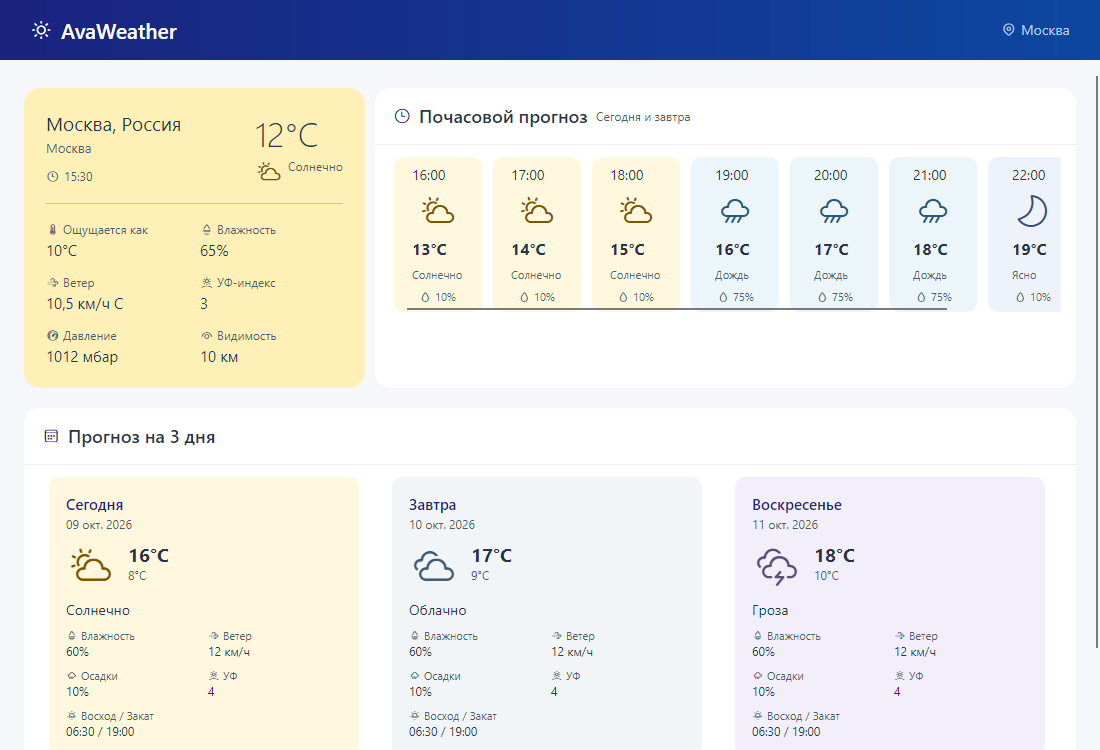
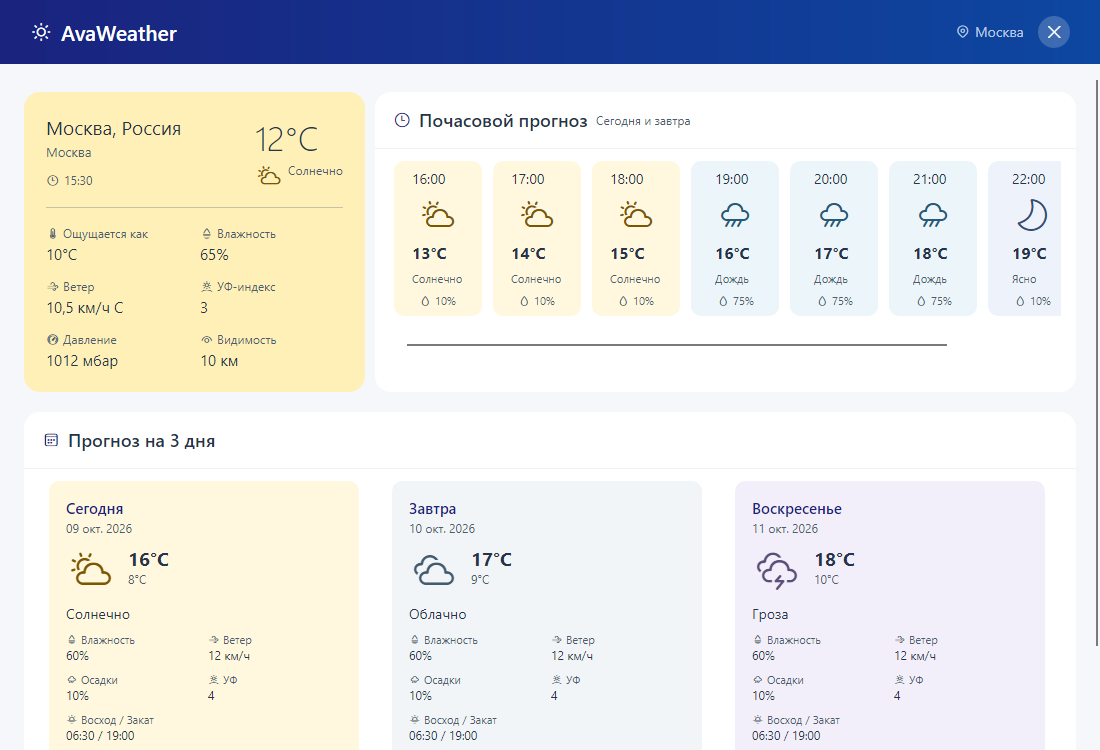
Replace native title bar with draggable weather header

diff --git a/AvaWeather/Views/WeatherView.cs b/AvaWeather/Views/WeatherView.cs
@@ -1,12 +1,15 @@
 using System.Linq.Expressions;
 using Avalonia;
 using Avalonia.Controls;
+using Avalonia.Controls.Chrome;
 using Avalonia.Controls.Primitives;
 using Avalonia.Controls.Templates;
 using Avalonia.Data;
 using Avalonia.Layout;
+using Avalonia.Input;
 using Avalonia.Markup.Declarative;
 using Avalonia.Media;
+using Avalonia.Automation;
 using AvaWeather.ViewModels;
 using AvaWeather.Theming;
 using FluentIcons.Avalonia;
@@ -51,8 +54,7 @@ public sealed class WeatherView : UserControl
                         LoadingPanel(),
                         ErrorPanel(),
                         _top,
-                        forecast,
-                        PlaceNameCredit()
+                        forecast
                     }
                 }
             });
@@ -69,8 +71,22 @@ public sealed class WeatherView : UserControl
             VerticalAlignment = VerticalAlignment.Center
         };
         BindText<WeatherViewModel>(location, x => x.HeaderLocation);
-        return new Border
+        var close = new Button
         {
+            Name = "CloseWindowButton",
+            Width = 32, Height = 32, Padding = new Thickness(6),
+            Background = ColorService.GetBrush("Header.Close.Background"),
+            BorderThickness = new Thickness(0), CornerRadius = new CornerRadius(16),
+            Content = UiIcon(FluentIconKind.Dismiss, 20, ColorService.GetBrush("White"))
+        };
+        close.Bind(ToolTip.TipProperty, CompiledBinding.Create<WeatherViewModel, string>(x => x.Strings.CloseWindow));
+        close.Bind(AutomationProperties.NameProperty, CompiledBinding.Create<WeatherViewModel, string>(x => x.Strings.CloseWindow));
+        WindowDecorationProperties.SetElementRole(close, WindowDecorationsElementRole.User);
+        close.Click += (_, _) => (TopLevel.GetTopLevel(close) as Window)?.Close();
+
+        var header = new Border
+        {
+            Name = "WeatherHeader",
             Background = HeaderGradient(),
             Padding = new Thickness(30, 16),
             Child = new Grid
@@ -79,10 +95,21 @@ public sealed class WeatherView : UserControl
                 Children =
                 {
                     new StackPanel { Orientation = Orientation.Horizontal, Spacing = 9, Children = { UiIcon(FluentIconKind.WeatherSunny, 22, ColorService.GetBrush("White")), new TextBlock { Text = "AvaWeather", Foreground = ColorService.GetBrush("White"), FontSize = 21, FontWeight = FontWeight.SemiBold, VerticalAlignment = VerticalAlignment.Center } } },
-                    AtColumn(new StackPanel { Orientation = Orientation.Horizontal, Spacing = 5, Children = { UiIcon(FluentIconKind.Location, 15, ColorService.GetBrush("Header.Location")), location } }, 1)
+                    AtColumn(new StackPanel
+                    {
+                        Orientation = Orientation.Horizontal, Spacing = 14,
+                        Children =
+                        {
+                            new StackPanel { Orientation = Orientation.Horizontal, Spacing = 5, VerticalAlignment = VerticalAlignment.Center,
+                                Children = { UiIcon(FluentIconKind.Location, 15, ColorService.GetBrush("Header.Location")), location } },
+                            close
+                        }
+                    }, 1)
                 }
             }
         };
+        WindowDecorationProperties.SetElementRole(header, WindowDecorationsElementRole.TitleBar);
+        return header;
     }
 
     private static LinearGradientBrush HeaderGradient() => new()

diff --git a/AvaWeather.Tests/WeatherViewTests.cs b/AvaWeather.Tests/WeatherViewTests.cs
@@ -1,5 +1,6 @@
 using Avalonia;
 using Avalonia.Controls;
+using Avalonia.Controls.Chrome;
 using Avalonia.Headless;
 using Avalonia.Headless.XUnit;
 using Avalonia.Media;
@@ -7,6 +8,8 @@ using Avalonia.Media.Imaging;
 using Avalonia.Themes.Fluent;
 using Avalonia.Threading;
 using Avalonia.VisualTree;
+using Avalonia.Input;
+using Avalonia.Interactivity;
 using System.Text;
 using AvaWeather.Services;
 using AvaWeather.ViewModels;
@@ -38,6 +41,29 @@ public class WeatherViewTests
     {
         var window = new MainWindow();
         Assert.NotNull(window.Icon);
+    }
+
+    [AvaloniaFact]
+    public void Main_window_uses_custom_draggable_header_and_close_button()
+    {
+        var window = new MainWindow { Content = new WeatherView() };
+        window.Show();
+        Dispatcher.UIThread.RunJobs();
+
+        Assert.Equal(WindowDecorations.None, window.WindowDecorations);
+        Assert.True(window.ExtendClientAreaToDecorationsHint);
+        var header = window.GetVisualDescendants().OfType<Border>()
+            .Single(border => border.Name == "WeatherHeader");
+        Assert.Equal(WindowDecorationsElementRole.TitleBar,
+            WindowDecorationProperties.GetElementRole(header));
+        var close = window.GetVisualDescendants().OfType<Button>()
+            .Single(button => button.Name == "CloseWindowButton");
+        Assert.Equal(WindowDecorationsElementRole.User,
+            WindowDecorationProperties.GetElementRole(close));
+
+        close.RaiseEvent(new RoutedEventArgs(Button.ClickEvent));
+
+        Assert.False(window.IsVisible);
     }
 
     [AvaloniaFact]
@@ -166,7 +192,8 @@ public class WeatherViewTests
         window.Show();
         Dispatcher.UIThread.RunJobs();
 
-        var retry = window.GetVisualDescendants().OfType<Button>().Single();
+        var retry = window.GetVisualDescendants().OfType<Button>()
+            .Single(button => ReferenceEquals(button.Command, vm.LoadCommand));
         Assert.Same(vm.LoadCommand, retry.Command);
         await vm.LoadCommand.ExecuteAsync(null);
         Dispatcher.UIThread.RunJobs();

diff --git a/AvaWeather/Localization/UiStrings.cs b/AvaWeather/Localization/UiStrings.cs
@@ -13,6 +13,7 @@ public sealed class UiStrings
 
         LoadingWeather = Get(nameof(LoadingWeather));
         Retry = Get(nameof(Retry));
+        CloseWindow = Get(nameof(CloseWindow));
         FeelsLike = Get(nameof(FeelsLike));
         Humidity = Get(nameof(Humidity));
         Wind = Get(nameof(Wind));
@@ -42,6 +43,7 @@ public sealed class UiStrings
     public CultureInfo Culture { get; }
     public string LoadingWeather { get; }
     public string Retry { get; }
+    public string CloseWindow { get; }
     public string FeelsLike { get; }
     public string Humidity { get; }
     public string Wind { get; }

diff --git a/AvaWeather.Tests/WeatherLocalizationTests.cs b/AvaWeather.Tests/WeatherLocalizationTests.cs
@@ -44,6 +44,8 @@ public class WeatherLocalizationTests
         Assert.Equal("Today", en.Today);
         Assert.Equal("Повторить", ru.Retry);
         Assert.Equal("Retry", en.Retry);
+        Assert.Equal("Закрыть окно", ru.CloseWindow);
+        Assert.Equal("Close window", en.CloseWindow);
     }
 
     [Fact]

diff --git a/AvaWeather/Views/MainWindow.cs b/AvaWeather/Views/MainWindow.cs
@@ -17,5 +17,7 @@ public sealed class MainWindow : Window
         MinWidth = 490;
         MinHeight = 520;
         Background = ThemeColorService.Default.GetBrush("Page");
+        WindowDecorations = WindowDecorations.None;
+        ExtendClientAreaToDecorationsHint = true;
     }
 }
